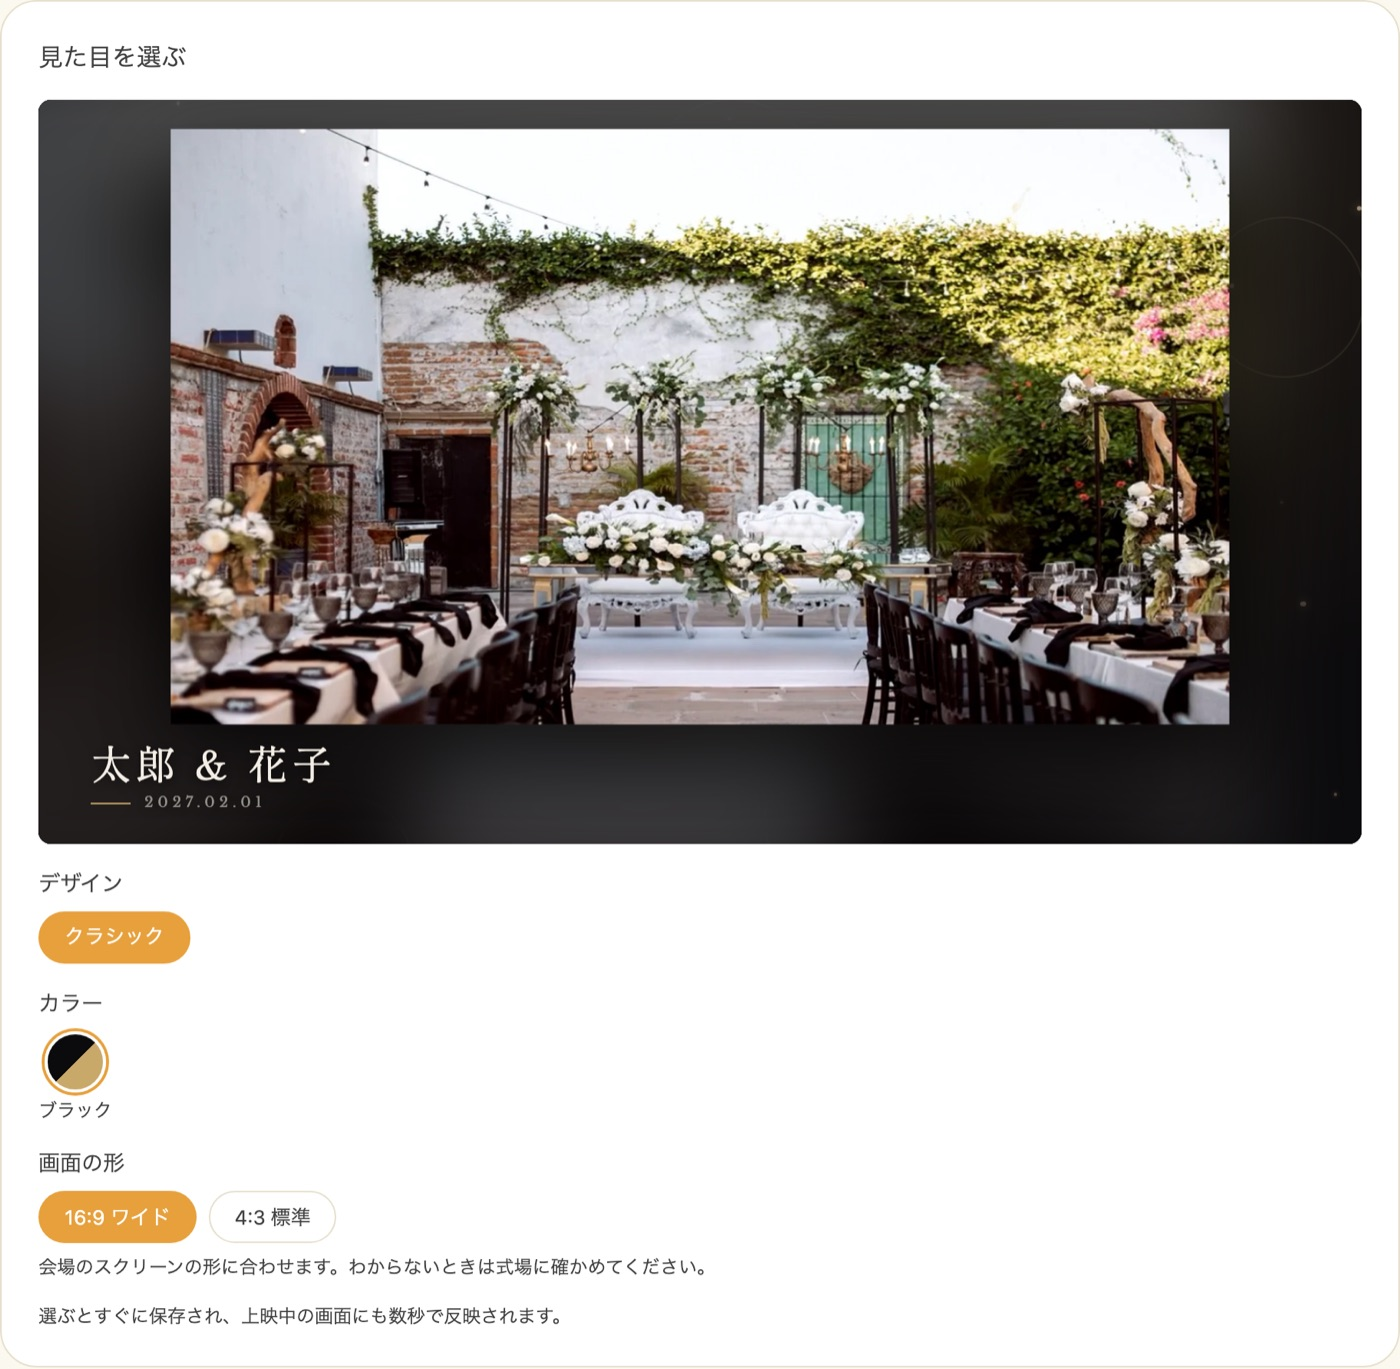
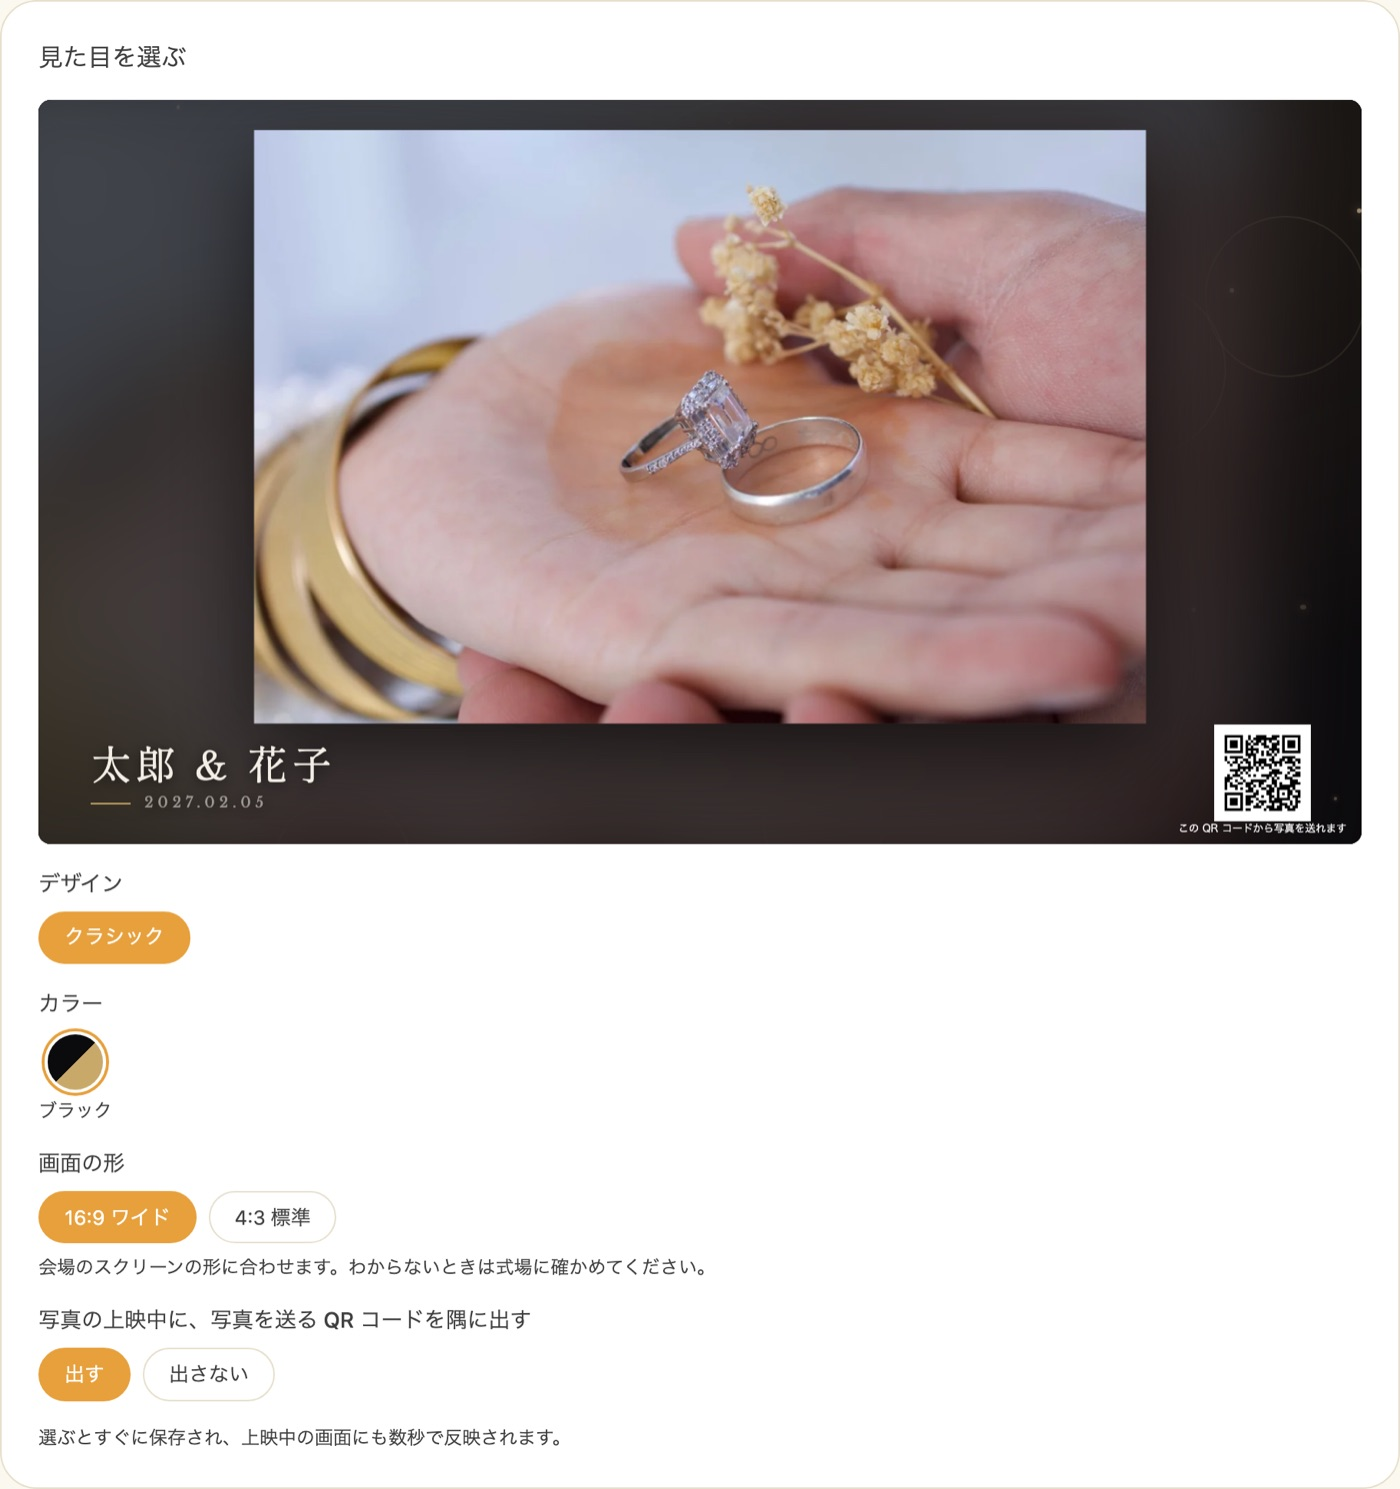
docs: スライドショーの会場の画面に出る写真投稿用の QR コードを書く
会場の画面に、ゲストが写真を送る QR コードが出るようになった。
写真が無いときは中央に大きく、上映中は右下に小さく出て、隅の表示は見た目の設定で消せる。
出る場所と消し方、共有 URL を作り直したときの振る舞いを、スライドショーと写真共有のページに足し、
変わった画面のスクリーンショットを撮り直す。

Claude-Session: https://claude.ai/code/session_01KXS7YUxZGB8gBio4QFbGbE

diff --git a/src/content/docs/guest-photo-sharing.md b/src/content/docs/guest-photo-sharing.md
@@ -52,13 +52,17 @@ title: "ゲストと写真を共有する"
 
 「写真を送る」のボタンは、購入したあとに写真共有の画面を一度開くと表示されるようになります。
 
+### スライドショーの会場の画面の QR コード {#slideshow-qr}
+
+[スライドショー](/guest-photo-slideshow/)を使うと、会場のスクリーンにもゲストに配るものと同じ QR コードが表示されます。スクリーンを見たゲストが、その場で読み取って写真を送れます。詳しくは「[会場の画面に出る QR コード](/guest-photo-slideshow/#screen-qr)」をご覧ください。
+
 ### URL を作り直す {#reissue}
 
 QR コードや URL が思わぬところに出回ってしまったときは、「URL を作り直す」をタップし、確認の画面で「作り直す」をタップします。
 
 :::warning[配った QR コードは使えなくなります]
 作り直すと、今の URL と QR コードは使えなくなります。すでに印刷して配った QR コードも使えなくなるため、新しい QR コードを配り直してください。
-公開中のプロフィールブックと席次表の「写真を送る」は、新しい URL に自動で替わります。
+公開中のプロフィールブックと席次表の「写真を送る」は、新しい URL に自動で替わります。スライドショーの会場の画面の QR コードも、数秒で新しい QR コードに替わります。
 :::
 
 ---
